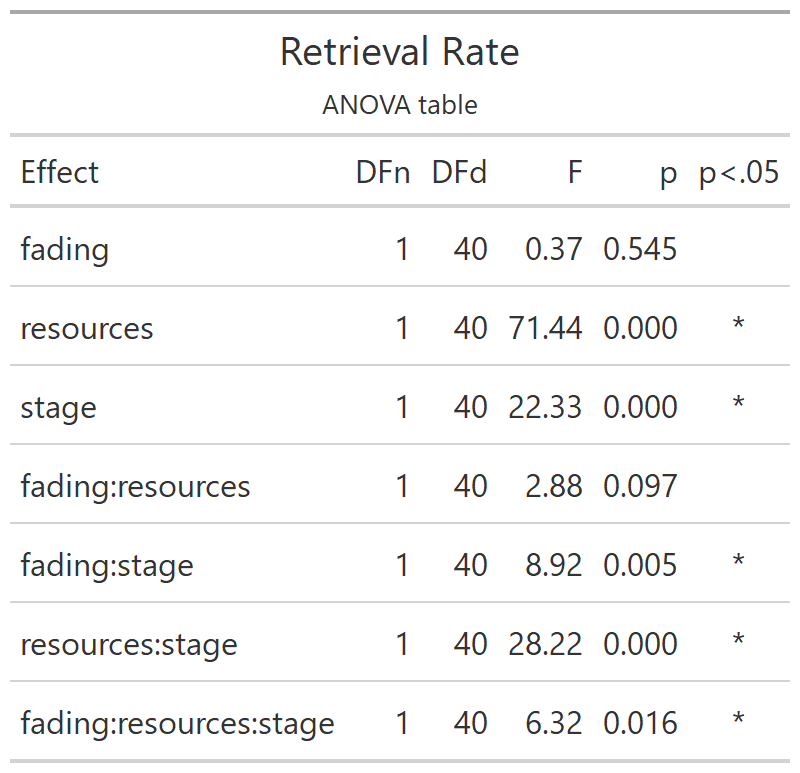
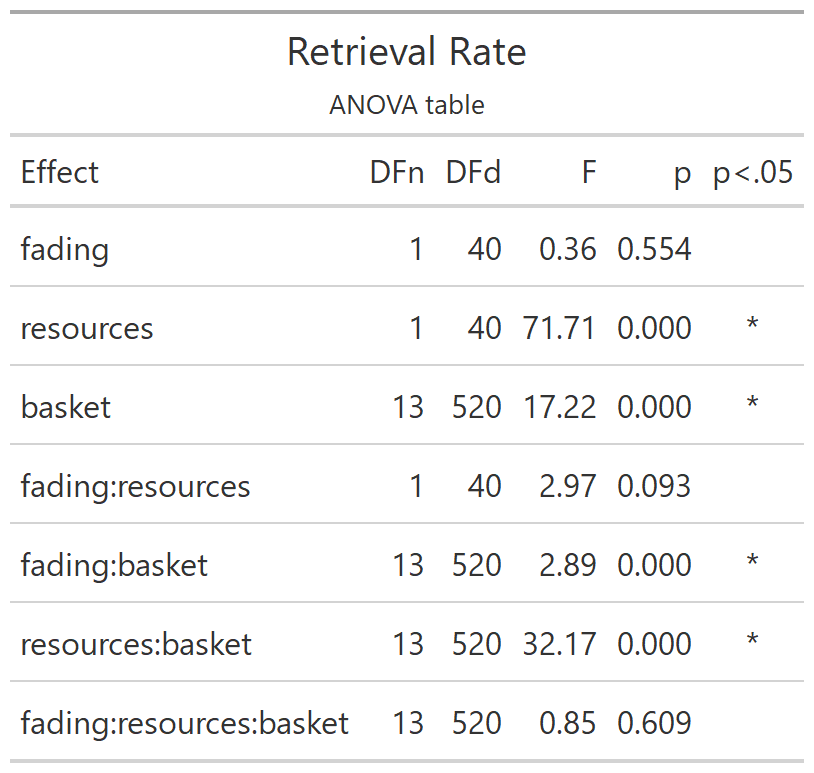
e2 retrieval rate as count

diff --git a/docs/retrieval-rate-1.html b/docs/retrieval-rate-1.html
@@ -76,7 +76,7 @@
 </h1>
 <p>Experiment 2</p>
 <div class="inline-figure"><img src="e2_tables/e2_retrievalrate_ANOVA.png" width="50%"></div>
-<div class="inline-figure"><img src="e2_plots/e2_retrievalrate_PLOT2.png" width="100%"></div>
+<div class="inline-figure"><img src="e2_plots/e2_retrievalrate_PLOT14.png" width="100%"></div>
 
 </div>
   <div class="chapter-nav">
@@ -101,7 +101,7 @@
 <footer class="bg-primary text-light mt-5"><div class="container"><div class="row">
 
   <div class="col-12 col-md-6 mt-3">
-    <p>"<strong>Foraging: introducing our gaze-contingent eye-tracking paradigm for studying foraging</strong>" was written by Matthew Green. It was last built on Tuesday 24 May 2022 at 15:22:45.</p>
+    <p>"<strong>Foraging: introducing our gaze-contingent eye-tracking paradigm for studying foraging</strong>" was written by Matthew Green. It was last built on Tuesday 24 May 2022 at 16:18:05.</p>
   </div>
 
   <div class="col-12 col-md-6 mt-3">

diff --git a/docs/404.html b/docs/404.html
@@ -89,7 +89,7 @@ the table of contents to find the page you are looking for.</p>
 <footer class="bg-primary text-light mt-5"><div class="container"><div class="row">
 
   <div class="col-12 col-md-6 mt-3">
-    <p>"<strong>Foraging: introducing our gaze-contingent eye-tracking paradigm for studying foraging</strong>" was written by Matthew Green. It was last built on Tuesday 24 May 2022 at 15:22:45.</p>
+    <p>"<strong>Foraging: introducing our gaze-contingent eye-tracking paradigm for studying foraging</strong>" was written by Matthew Green. It was last built on Tuesday 24 May 2022 at 16:18:05.</p>
   </div>
 
   <div class="col-12 col-md-6 mt-3">

diff --git a/docs/index.html b/docs/index.html
@@ -108,7 +108,7 @@ set in the _output.yml file.&lt;/p&gt;">
 <footer class="bg-primary text-light mt-5"><div class="container"><div class="row">
 
   <div class="col-12 col-md-6 mt-3">
-    <p>"<strong>Foraging: introducing our gaze-contingent eye-tracking paradigm for studying foraging</strong>" was written by Matthew Green. It was last built on Tuesday 24 May 2022 at 15:22:45.</p>
+    <p>"<strong>Foraging: introducing our gaze-contingent eye-tracking paradigm for studying foraging</strong>" was written by Matthew Green. It was last built on Tuesday 24 May 2022 at 16:18:05.</p>
   </div>
 
   <div class="col-12 col-md-6 mt-3">

diff --git a/docs/references.html b/docs/references.html
@@ -106,7 +106,7 @@ set in the _output.yml file.&lt;/p&gt;">
 <footer class="bg-primary text-light mt-5"><div class="container"><div class="row">
 
   <div class="col-12 col-md-6 mt-3">
-    <p>"<strong>Foraging: introducing our gaze-contingent eye-tracking paradigm for studying foraging</strong>" was written by Matthew Green. It was last built on Tuesday 24 May 2022 at 15:22:45.</p>
+    <p>"<strong>Foraging: introducing our gaze-contingent eye-tracking paradigm for studying foraging</strong>" was written by Matthew Green. It was last built on Tuesday 24 May 2022 at 16:18:05.</p>
   </div>
 
   <div class="col-12 col-md-6 mt-3">

diff --git a/docs/inter-tree-distance-1.html b/docs/inter-tree-distance-1.html
@@ -101,7 +101,7 @@
 <footer class="bg-primary text-light mt-5"><div class="container"><div class="row">
 
   <div class="col-12 col-md-6 mt-3">
-    <p>"<strong>Foraging: introducing our gaze-contingent eye-tracking paradigm for studying foraging</strong>" was written by Matthew Green. It was last built on Tuesday 24 May 2022 at 15:22:45.</p>
+    <p>"<strong>Foraging: introducing our gaze-contingent eye-tracking paradigm for studying foraging</strong>" was written by Matthew Green. It was last built on Tuesday 24 May 2022 at 16:18:05.</p>
   </div>
 
   <div class="col-12 col-md-6 mt-3">

diff --git a/docs/inter-tree-distance.html b/docs/inter-tree-distance.html
@@ -104,7 +104,7 @@
 <footer class="bg-primary text-light mt-5"><div class="container"><div class="row">
 
   <div class="col-12 col-md-6 mt-3">
-    <p>"<strong>Foraging: introducing our gaze-contingent eye-tracking paradigm for studying foraging</strong>" was written by Matthew Green. It was last built on Tuesday 24 May 2022 at 15:22:45.</p>
+    <p>"<strong>Foraging: introducing our gaze-contingent eye-tracking paradigm for studying foraging</strong>" was written by Matthew Green. It was last built on Tuesday 24 May 2022 at 16:18:05.</p>
   </div>
 
   <div class="col-12 col-md-6 mt-3">

diff --git a/docs/introduction-1.html b/docs/introduction-1.html
@@ -107,7 +107,7 @@
 <footer class="bg-primary text-light mt-5"><div class="container"><div class="row">
 
   <div class="col-12 col-md-6 mt-3">
-    <p>"<strong>Foraging: introducing our gaze-contingent eye-tracking paradigm for studying foraging</strong>" was written by Matthew Green. It was last built on Tuesday 24 May 2022 at 15:22:45.</p>
+    <p>"<strong>Foraging: introducing our gaze-contingent eye-tracking paradigm for studying foraging</strong>" was written by Matthew Green. It was last built on Tuesday 24 May 2022 at 16:18:05.</p>
   </div>
 
   <div class="col-12 col-md-6 mt-3">

diff --git a/docs/introduction.html b/docs/introduction.html
@@ -104,7 +104,7 @@
 <footer class="bg-primary text-light mt-5"><div class="container"><div class="row">
 
   <div class="col-12 col-md-6 mt-3">
-    <p>"<strong>Foraging: introducing our gaze-contingent eye-tracking paradigm for studying foraging</strong>" was written by Matthew Green. It was last built on Tuesday 24 May 2022 at 15:22:45.</p>
+    <p>"<strong>Foraging: introducing our gaze-contingent eye-tracking paradigm for studying foraging</strong>" was written by Matthew Green. It was last built on Tuesday 24 May 2022 at 16:18:05.</p>
   </div>
 
   <div class="col-12 col-md-6 mt-3">

diff --git a/docs/number-of-revisits-1.html b/docs/number-of-revisits-1.html
@@ -101,7 +101,7 @@
 <footer class="bg-primary text-light mt-5"><div class="container"><div class="row">
 
   <div class="col-12 col-md-6 mt-3">
-    <p>"<strong>Foraging: introducing our gaze-contingent eye-tracking paradigm for studying foraging</strong>" was written by Matthew Green. It was last built on Tuesday 24 May 2022 at 15:22:45.</p>
+    <p>"<strong>Foraging: introducing our gaze-contingent eye-tracking paradigm for studying foraging</strong>" was written by Matthew Green. It was last built on Tuesday 24 May 2022 at 16:18:05.</p>
   </div>
 
   <div class="col-12 col-md-6 mt-3">

diff --git a/docs/number-of-revisits.html b/docs/number-of-revisits.html
@@ -101,7 +101,7 @@
 <footer class="bg-primary text-light mt-5"><div class="container"><div class="row">
 
   <div class="col-12 col-md-6 mt-3">
-    <p>"<strong>Foraging: introducing our gaze-contingent eye-tracking paradigm for studying foraging</strong>" was written by Matthew Green. It was last built on Tuesday 24 May 2022 at 15:22:45.</p>
+    <p>"<strong>Foraging: introducing our gaze-contingent eye-tracking paradigm for studying foraging</strong>" was written by Matthew Green. It was last built on Tuesday 24 May 2022 at 16:18:05.</p>
   </div>
 
   <div class="col-12 col-md-6 mt-3">

diff --git a/docs/number-of-trees-1.html b/docs/number-of-trees-1.html
@@ -101,7 +101,7 @@
 <footer class="bg-primary text-light mt-5"><div class="container"><div class="row">
 
   <div class="col-12 col-md-6 mt-3">
-    <p>"<strong>Foraging: introducing our gaze-contingent eye-tracking paradigm for studying foraging</strong>" was written by Matthew Green. It was last built on Tuesday 24 May 2022 at 15:22:45.</p>
+    <p>"<strong>Foraging: introducing our gaze-contingent eye-tracking paradigm for studying foraging</strong>" was written by Matthew Green. It was last built on Tuesday 24 May 2022 at 16:18:05.</p>
   </div>
 
   <div class="col-12 col-md-6 mt-3">

diff --git a/docs/number-of-trees.html b/docs/number-of-trees.html
@@ -101,7 +101,7 @@
 <footer class="bg-primary text-light mt-5"><div class="container"><div class="row">
 
   <div class="col-12 col-md-6 mt-3">
-    <p>"<strong>Foraging: introducing our gaze-contingent eye-tracking paradigm for studying foraging</strong>" was written by Matthew Green. It was last built on Tuesday 24 May 2022 at 15:22:45.</p>
+    <p>"<strong>Foraging: introducing our gaze-contingent eye-tracking paradigm for studying foraging</strong>" was written by Matthew Green. It was last built on Tuesday 24 May 2022 at 16:18:05.</p>
   </div>
 
   <div class="col-12 col-md-6 mt-3">
